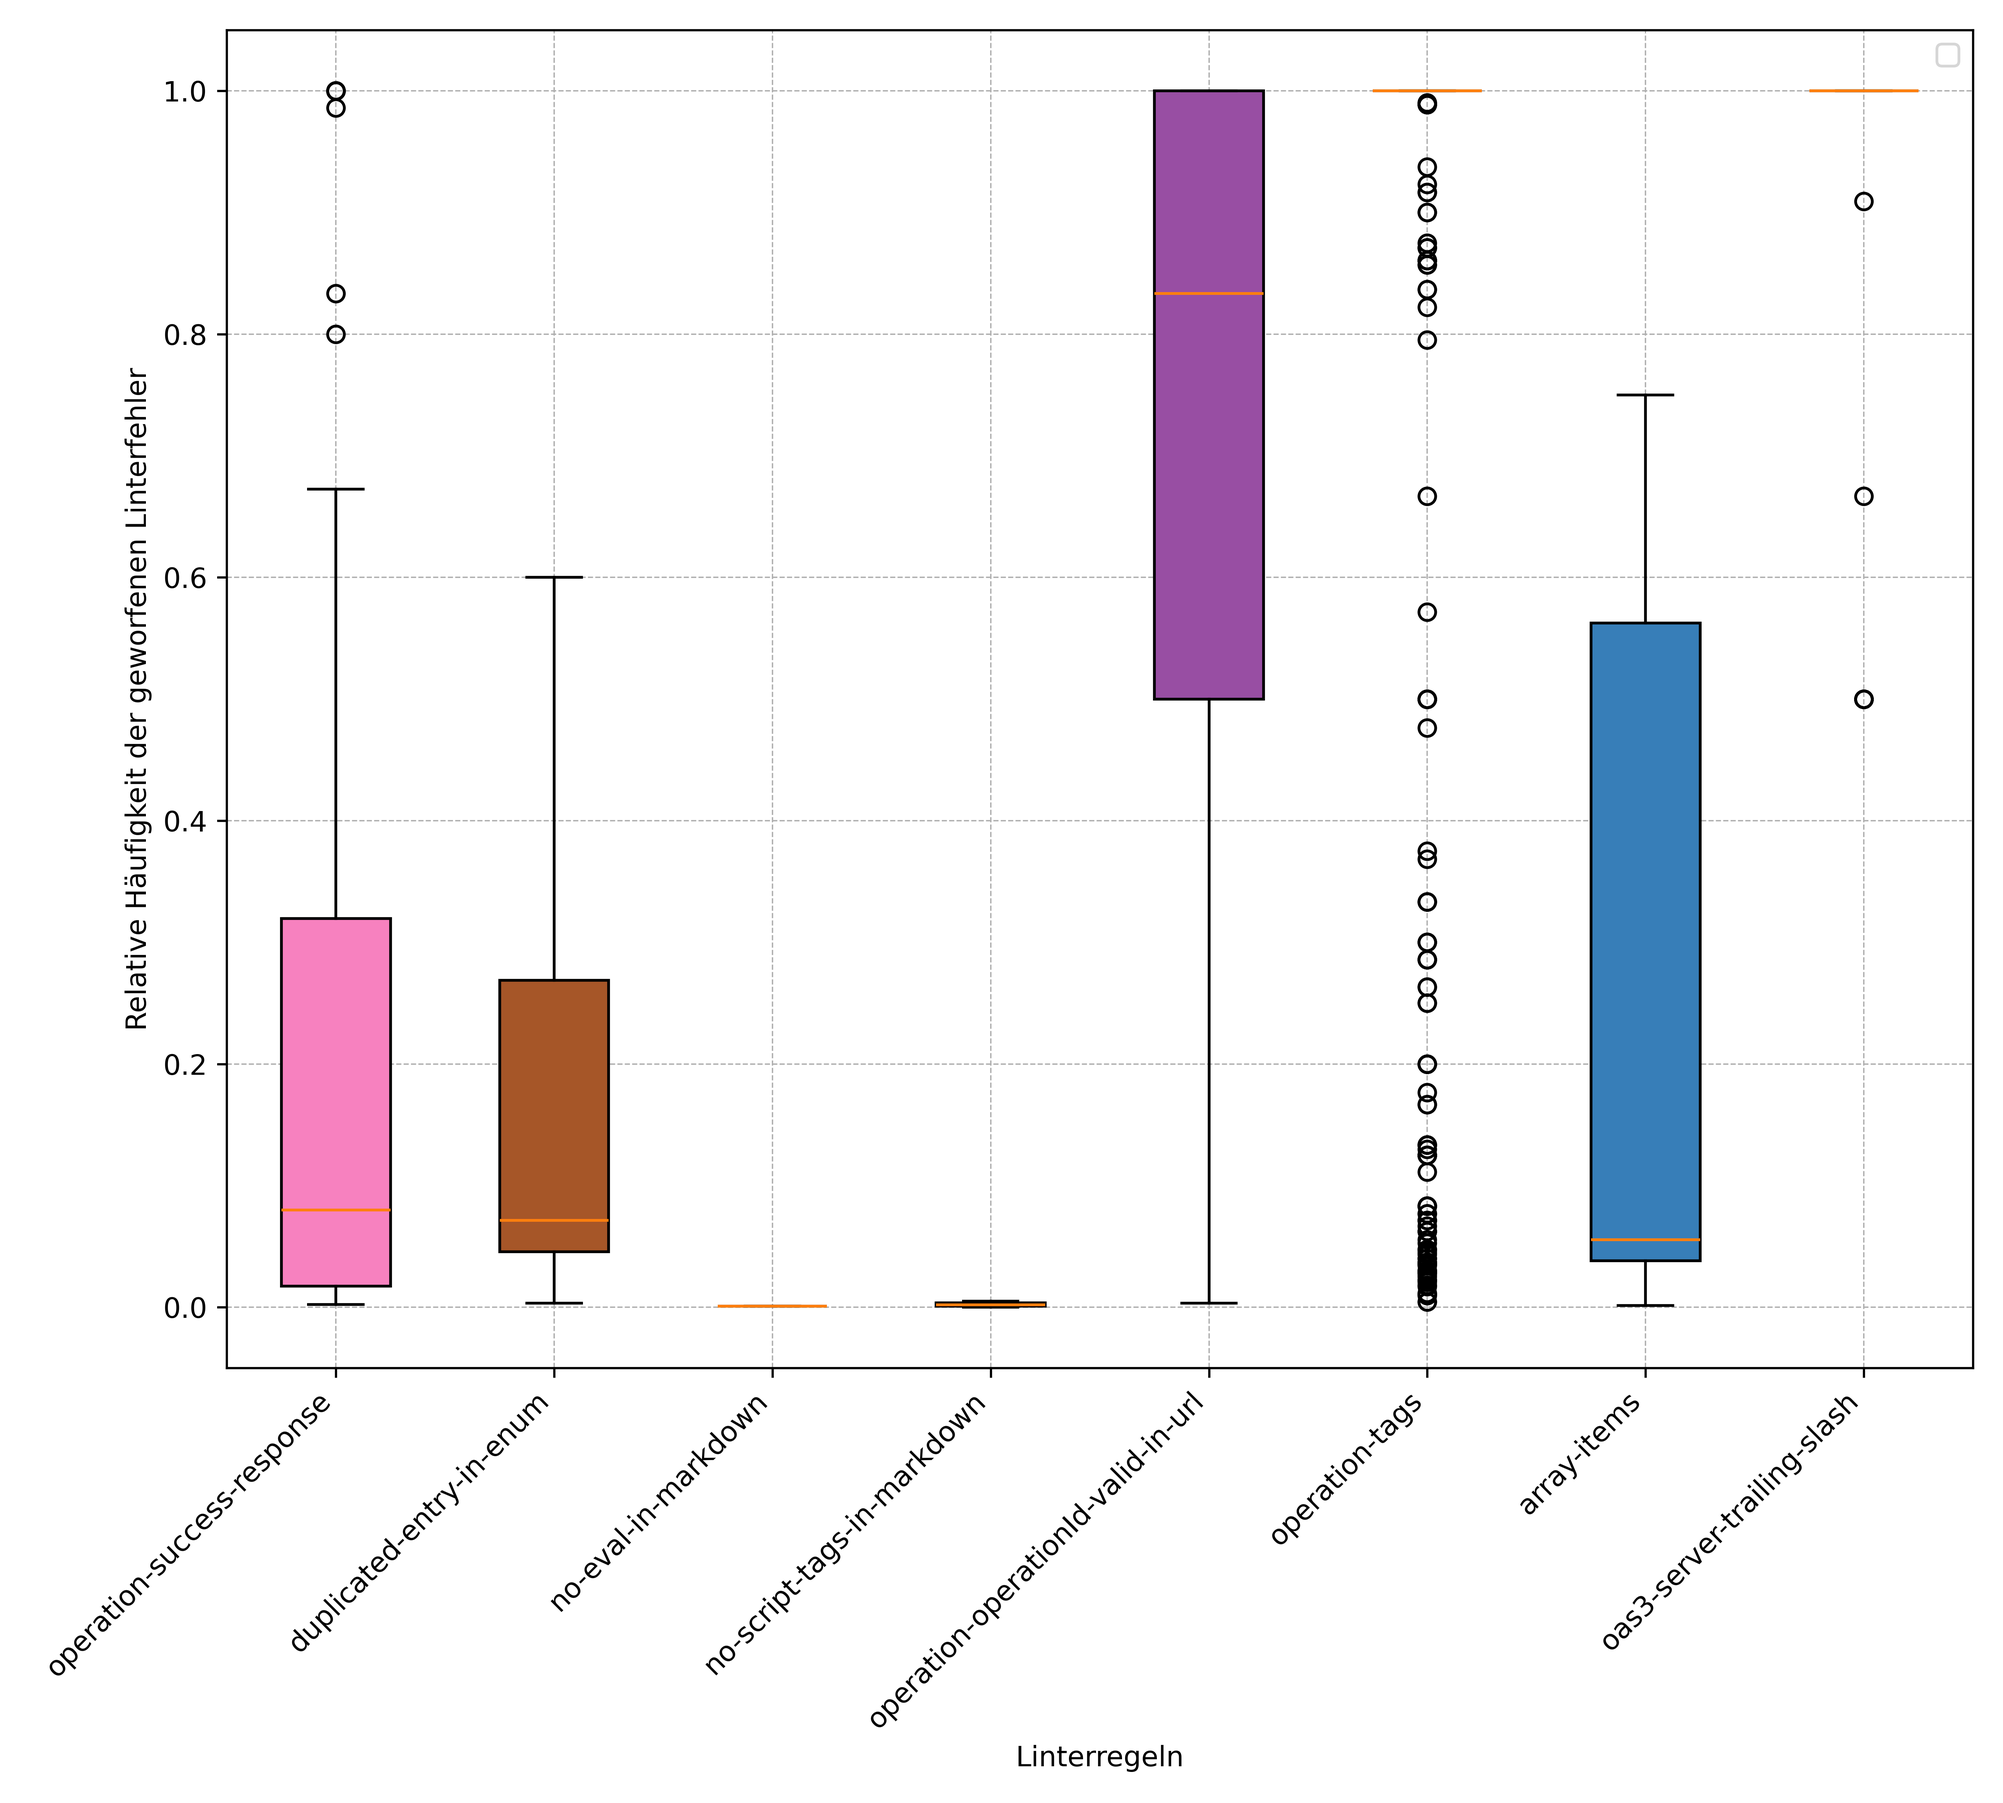
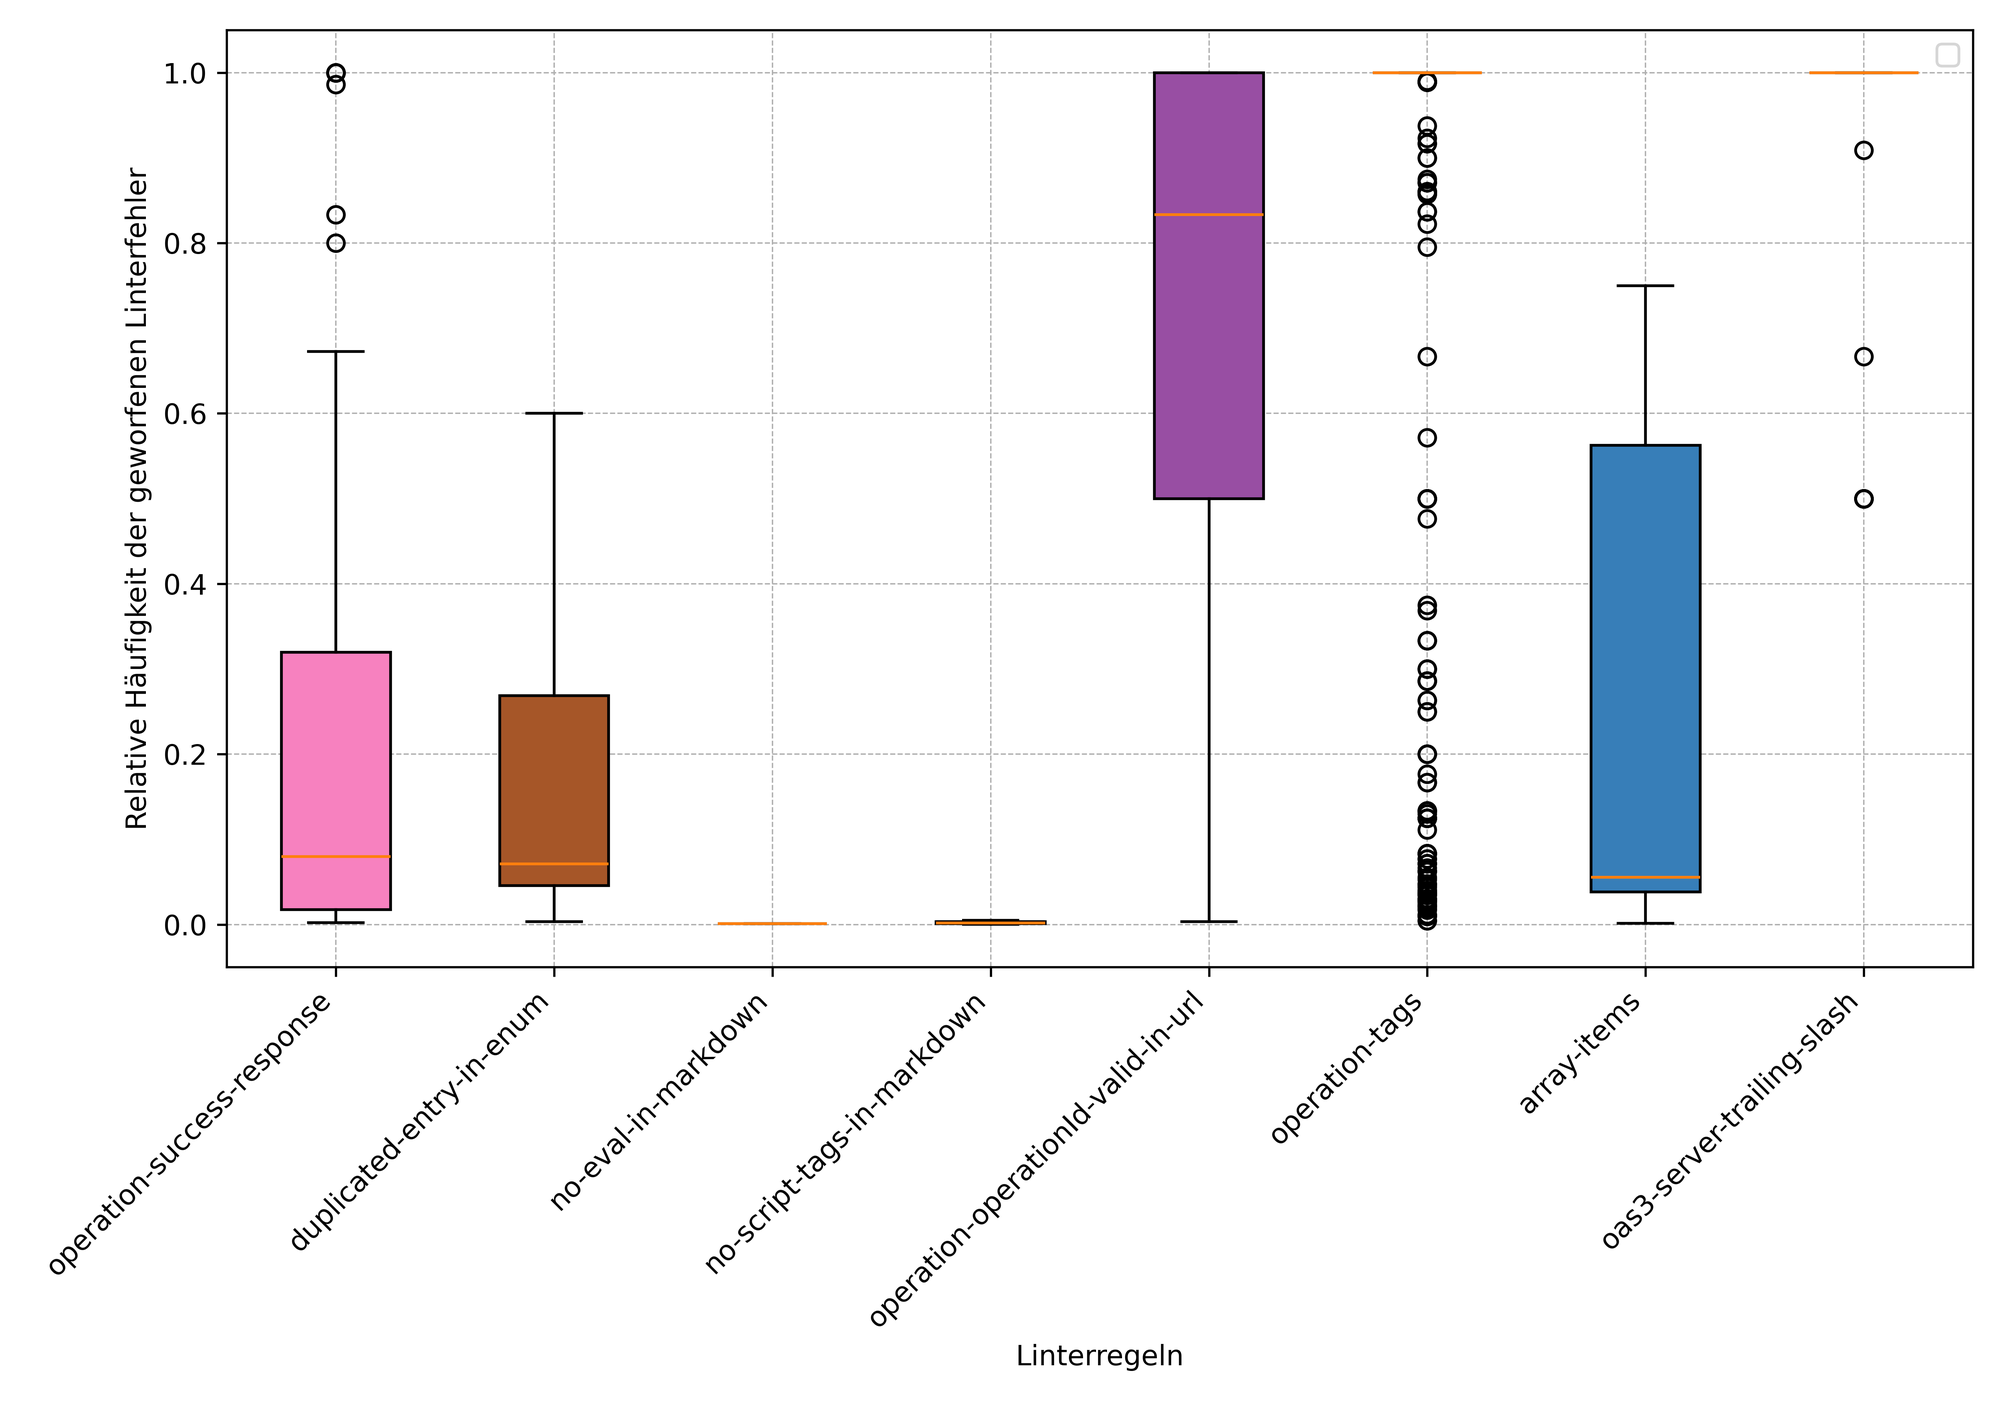
resize diagramms

diff --git a/analysis/src/plot/rulesimilaritydendrogram.py b/analysis/src/plot/rulesimilaritydendrogram.py
@@ -18,7 +18,7 @@ def create_plot():
     distance_matrix = pdist(df_transformed.T, metric="jaccard")
     linked = linkage(distance_matrix, method="complete")
 
-    fig, ax = plt.subplots(figsize=(10, 14))
+    fig, ax = plt.subplots(figsize=(10, 10))
     dendrogram(
         linked,
         orientation="top",
@@ -31,4 +31,5 @@ def create_plot():
     ax.grid(True, which="both", linestyle="--", linewidth=0.7)
     ax.set_xlabel("Linterregeln")
     ax.set_ylabel("Jaccard Distanz")
+    fig.tight_layout()
     save_plot_to_thesis_dir(filename="hierarchicalclusteronbinary", fig=fig)

diff --git a/analysis/src/plot/multitriggerboxplot.py b/analysis/src/plot/multitriggerboxplot.py
@@ -35,7 +35,7 @@ def create_plot():
         if len(df_inverse.loc[df_inverse[column] != 0][column]) > 0
     ]
 
-    fig, ax = plt.subplots(figsize=(10, 9))
+    fig, ax = plt.subplots(figsize=(10, 7))
     bplot = ax.boxplot(x=[data[1] for data in box_columns], patch_artist=True)
     ax.set_xticklabels([data[0] for data in box_columns], rotation=45, ha="right")
     ax.grid(True, which="both", linestyle="--", linewidth=0.5)

diff --git a/analysis/src/plot/multitriggerthrownvspossible.py b/analysis/src/plot/multitriggerthrownvspossible.py
@@ -30,7 +30,7 @@ def create_plot():
         column_limiter=column_limiter, cell_mapper=DataFrameMappers.map_to_possible
     )
 
-    fig, ax = plt.subplots(figsize=(10, 12))
+    fig, ax = plt.subplots(figsize=(10, 9))
     bar_width = 0.3
     index = np.arange(len(df_possible.columns))
 
